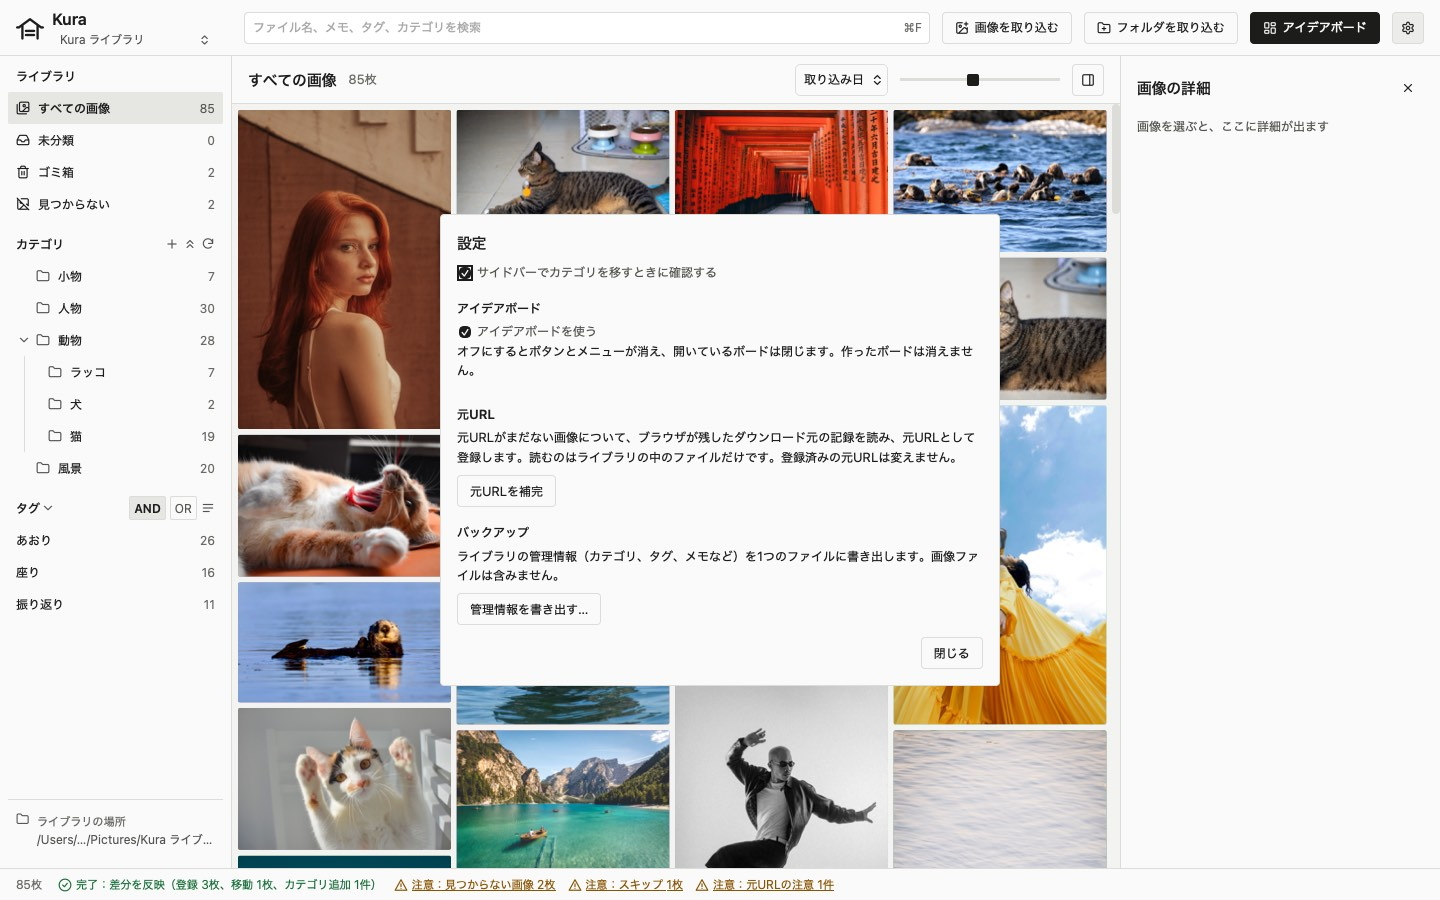
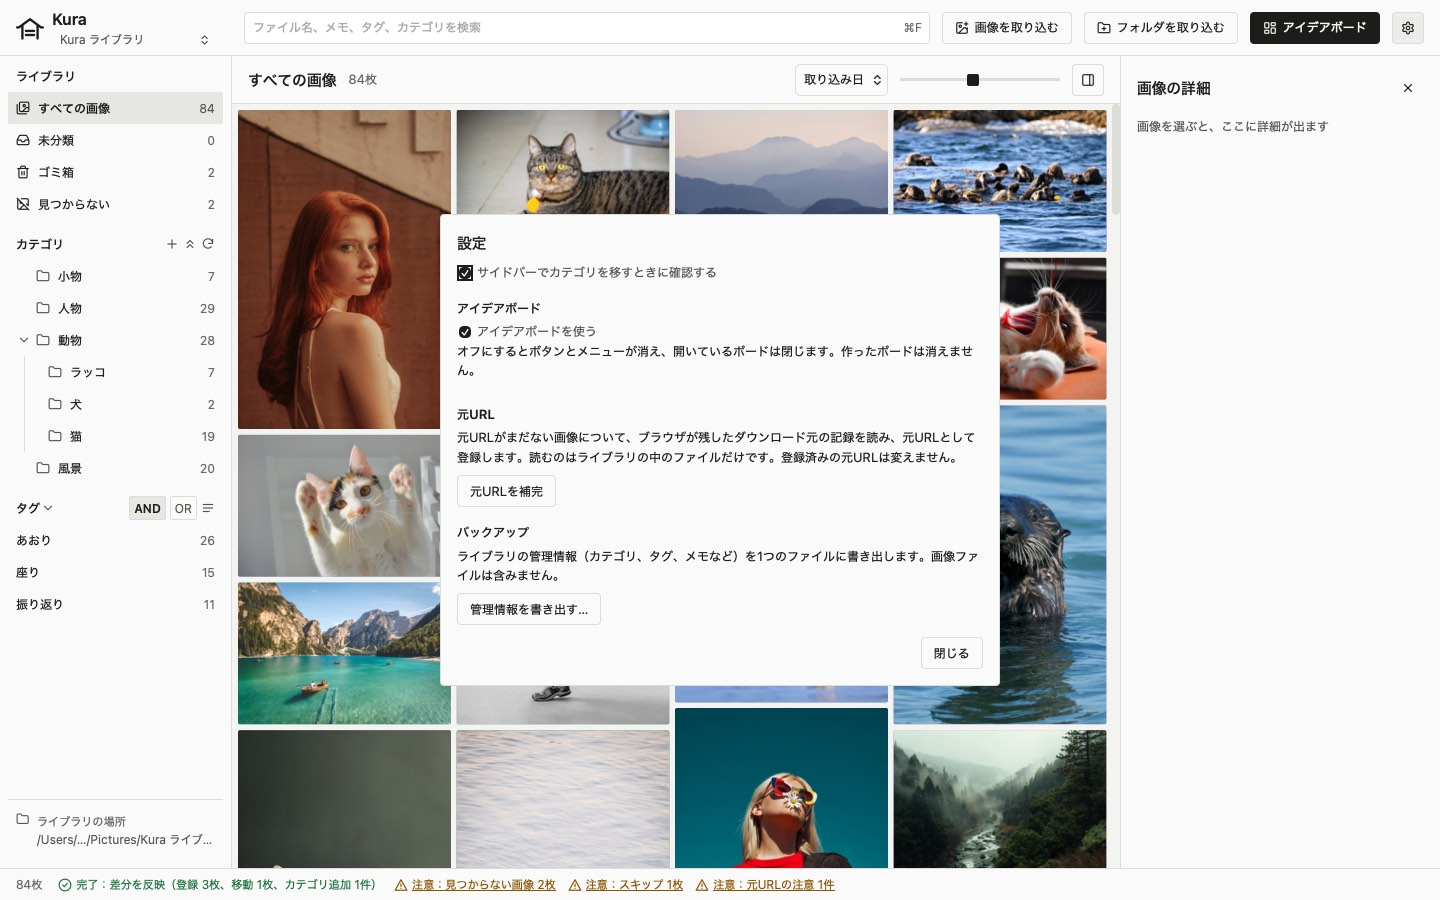
docs: 見本の写真を入れ替えたスクリーンショットに撮り直し、写しを元の写真の道筋で見分ける（タスク20）
利用者が公開に向かない写真を見本のフォルダから外した。写しを番号付きの名前で
使い回していたため、写真を消すと番号がずれて別の写真の写しを使うおそれがあった。
写しの作成は数秒かかるので、開発サーバーが応答する前に済ませ、最初の撮影が
時間切れにならないようにした。

Changed region(s): [[0.0938, 0.28, 0.7812, 0.9956], [0.3125, 0.1244, 0.625, 0.2489]]

diff --git a/vite.config.ts b/vite.config.ts
@@ -8,7 +8,7 @@ import react from '@vitejs/plugin-react'
 // ドキュメントのスクリーンショット用に、モックの画面へ見本の写真を渡す（virtual:docs-photos）。
 // KURA_DOCS_PHOTOS に「カテゴリ名のフォルダ／写真」の形のフォルダを渡したときだけ働く。
 // 写真は縮小した写しを .claude/tmp/docs-photos/ に作って配る。元のフォルダには書かない。
-// shortcut: 写しはファイル名だけで使い回すので、写真を入れ替えたら .claude/tmp/docs-photos/ を消してから撮る
+// 写しの名前は元の写真の道筋から付ける。写真を足したり消したりしても、別の写真の写しを使わない
 function docsPhotos(dir: string | undefined): Plugin {
   const id = 'virtual:docs-photos'
   const out = resolve('.claude/tmp/docs-photos')
@@ -33,7 +33,7 @@ function docsPhotos(dir: string | undefined): Plugin {
         const leaf = path.at(-1)!
         count.set(leaf, (count.get(leaf) ?? 0) + 1)
         const file_name = `${leaf}_${String(count.get(leaf)).padStart(2, '0')}.jpg`
-        const copy = join(out, file_name)
+        const copy = join(out, [...path, file].join('__'))
         if (!existsSync(copy))
           execFileSync('sips', ['-Z', '960', '-s', 'formatOptions', '80', join(dir!, ...path, file), '--out', copy])
         const info = execFileSync('sips', ['-g', 'pixelWidth', '-g', 'pixelHeight', copy], { encoding: 'utf8' })
@@ -42,10 +42,13 @@ function docsPhotos(dir: string | undefined): Plugin {
       })
       .sort((a, b) => collator.compare(a.file_name, b.file_name))
   }
+  let photos: ReturnType<typeof prepare> | null = null
   return {
     name: 'docs-photos',
+    // 写しを作るのに数秒かかる。開発サーバーが応答する前に済ませ、最初の画面の読み込みを待たせない
+    configureServer: () => void (photos = dir ? prepare() : null),
     resolveId: (s) => (s === id ? `\0${id}` : undefined),
-    load: (s) => (s === `\0${id}` ? `export default ${JSON.stringify(dir ? prepare() : null)}` : undefined),
+    load: (s) => (s === `\0${id}` ? `export default ${JSON.stringify(photos ?? (dir ? prepare() : null))}` : undefined),
   }
 }
 

diff --git a/README.md b/README.md
@@ -90,7 +90,7 @@ npx playwright install webkit
 KURA_DOCS_PHOTOS=<見本の写真のフォルダ> npm run docs:screenshots
 ```
 
-`KURA_DOCS_PHOTOS` には、商用利用できる写真をカテゴリ名のフォルダに分けて入れたフォルダを渡します（子のフォルダは子のカテゴリになります）。写真はリポジトリに入れません。縮小した写しを `.claude/tmp/docs-photos/` に作って使います。写真を入れ替えたら、このフォルダを消してから撮り直してください。
+`KURA_DOCS_PHOTOS` には、商用利用できる写真をカテゴリ名のフォルダに分けて入れたフォルダを渡します（子のフォルダは子のカテゴリになります）。写真はリポジトリに入れません。縮小した写しを `.claude/tmp/docs-photos/` に作って使います。写真を足したり消したりしたら、そのまま撮り直せます。
 
 ## ドキュメント
 
